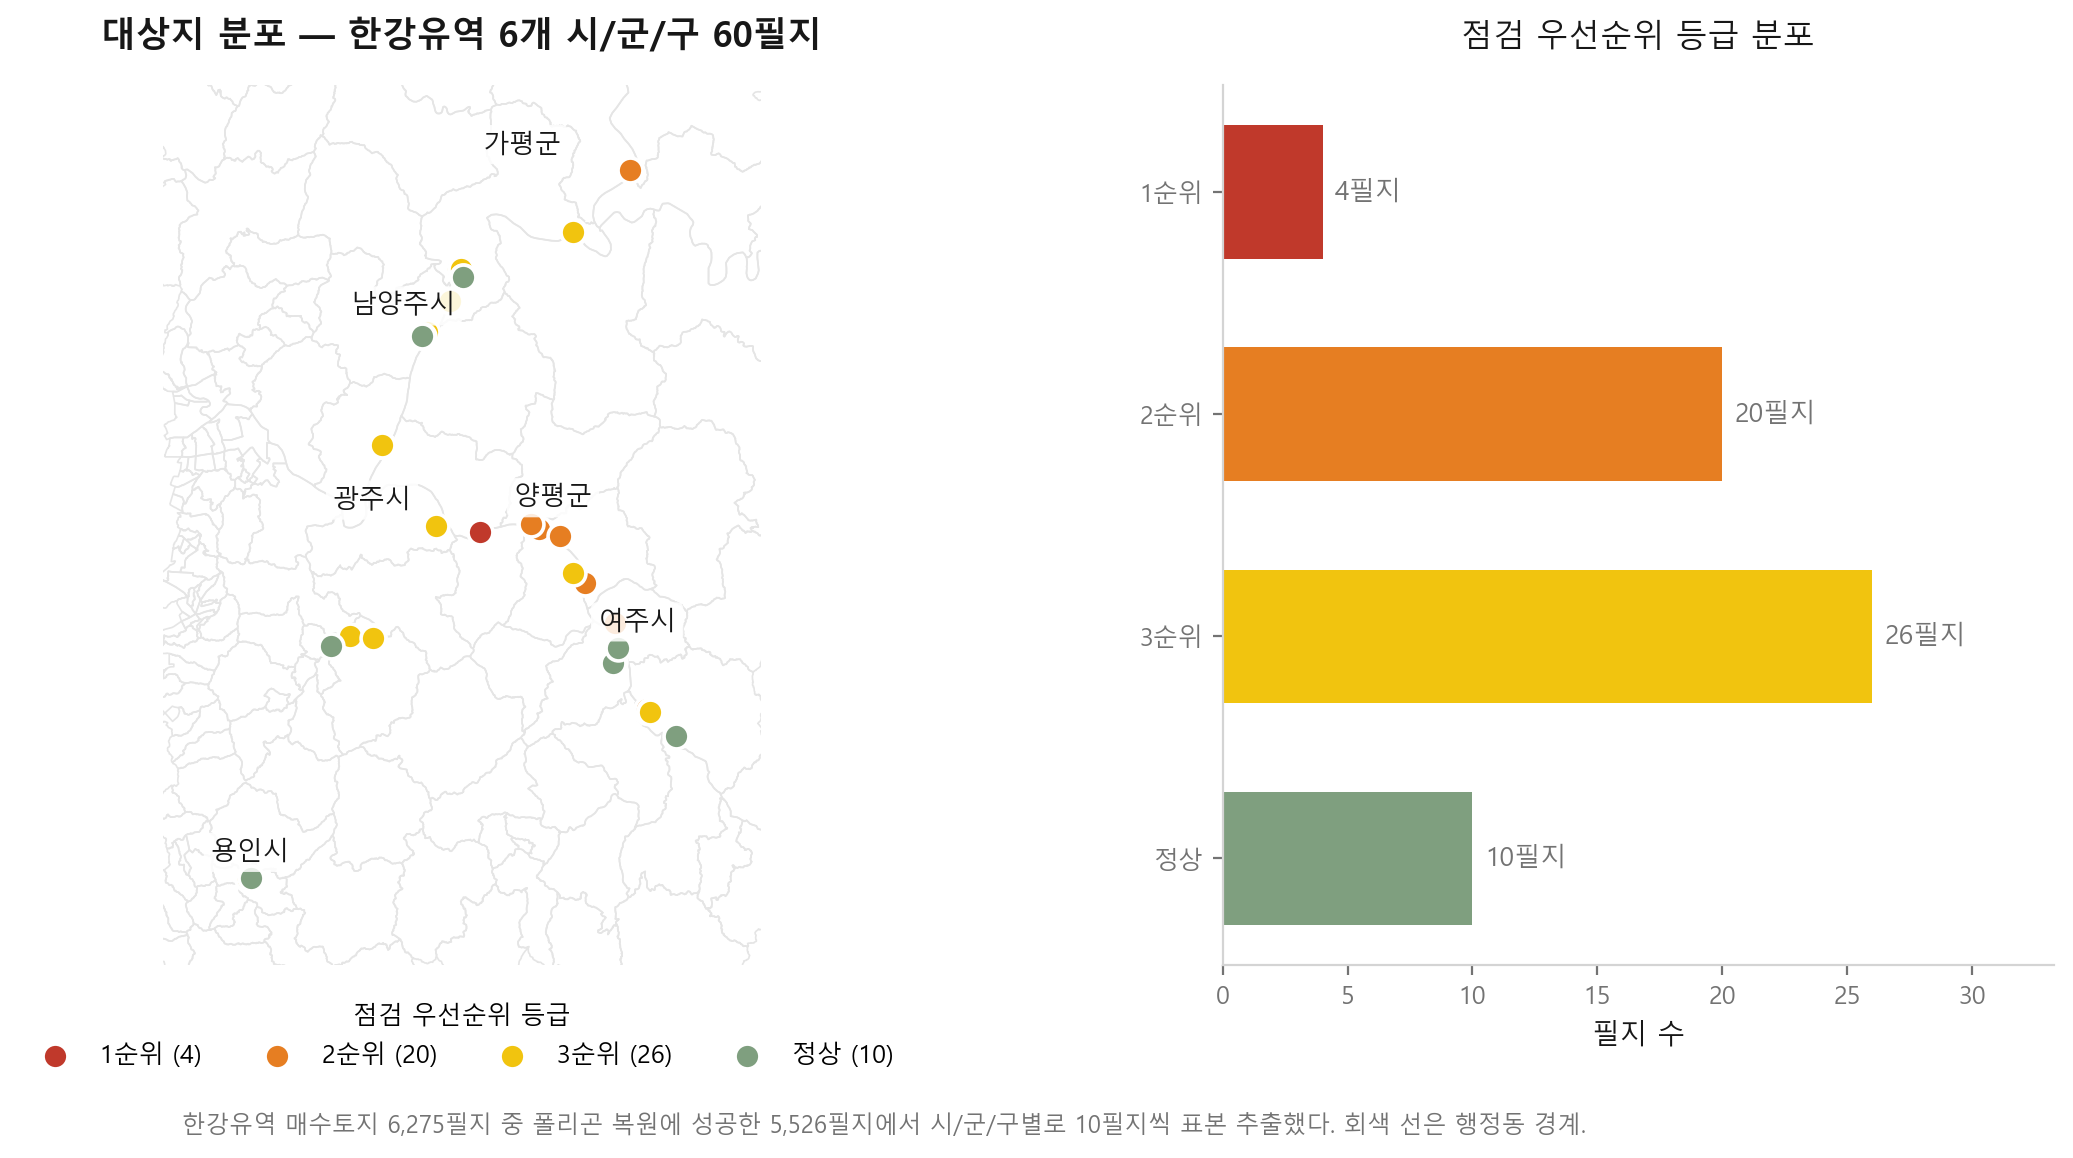
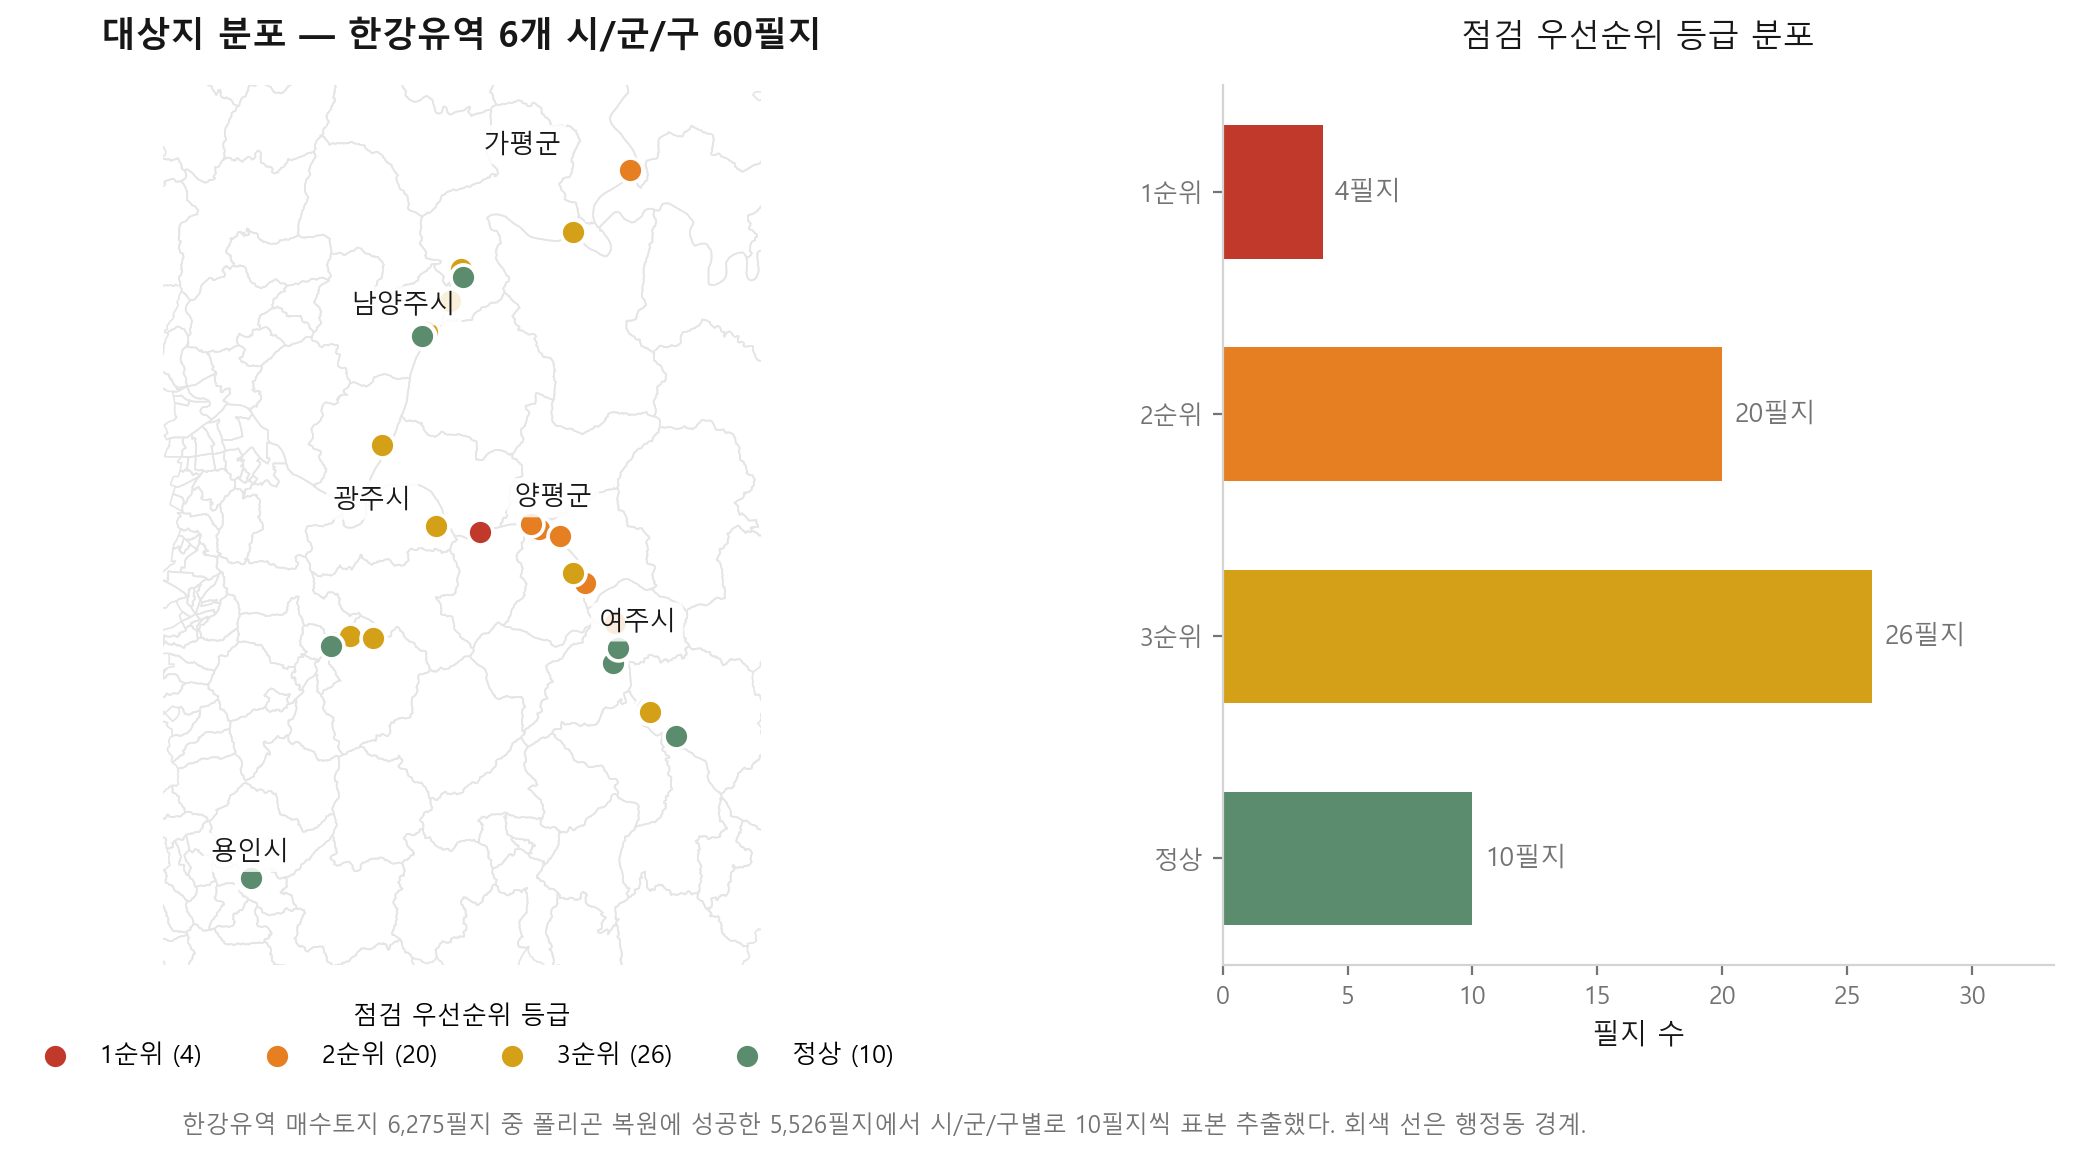
프로그램명을 '수변생태벨트 점검 우선순위 지원시스템'으로 변경
리서치 원문의 세 가지 근거를 따랐다.

첫째, 기관 적합성(중요도 최상) 항목에서 7점과 10점을 가르는 기준이 "공식
사업명을 제안서에 직접 연결"이다. KECI의 공식 핵심사업명은 '수변생태벨트
조성·관리'이므로 이름 첫 단어에서 그 조건을 충족한다.

둘째, 리서치는 전면에 내세울 이름으로 '수변녹지 관리 의사결정 시스템'을
지정하고 Agent를 혁신의 이름으로 쓰지 말라고 했다. 셋째, "AI를 핵심으로
과장하지 않는다"고 명시했다. 기존 이름은 하필 그 두 가지를 다 갖고 있었다.
'가드'의 감시·단속 어감도 매수토지 관리라는 사업 성격과 맞지 않는다.

부제는 대상 범위와 방법을 담도록 바꿨다.
'한강수계 매수토지 · 위성 변화탐지 기반 현장점검 순서 산정'

반영 범위: UI 헤더, 문서 title/description, 보고서 표제부와 각주,
Agent 시스템 프롬프트 2종, F3 워크플로 도식 제목.
저장소명 waterside_guard는 그대로 둔다 - 코드 식별자라 바꾸면 remote URL이
깨지고, 심사 대상은 제안서와 화면이다.

함께 정리한 것:
- 성능 비교표의 'proposed' 라벨을 '본 시스템 (다요인 통합)'으로. 긴 시스템명을
  표에 넣으면 다른 baseline과 길이가 맞지 않아 읽기 나빠진다.
- figure의 등급 색이 UI 팔레트와 어긋나 있었다(3순위·정상). 같은 등급이 화면과
  제안서에서 다른 색으로 보이면 그 자체로 신뢰를 깎으므로 lib/tiers.ts 값에 맞췄다.
- figure 문구도 UI와 같은 어휘로. '가까운 곳끼리 묶어 이동' -> '권역 통합 방문',
  '상위 N곳' -> '상위 N필지'.

diff --git a/ui/components/WeeklyReportModal.tsx b/ui/components/WeeklyReportModal.tsx
@@ -126,7 +126,7 @@ function ReportBody({ data, budget }: { data: ReportData; budget: number }) {
       <header className="mb-6 avoid-break">
         <div className="flex items-start justify-between">
           <div>
-            <p className="text-[11px] font-semibold tracking-wide text-brand">수변녹지 점검 우선순위 지원시스템</p>
+            <p className="text-[11px] font-semibold tracking-wide text-brand">수변생태벨트 점검 우선순위 지원시스템</p>
             <h1 className="mt-1 text-[22px] font-bold leading-tight">주간 점검현황 보고</h1>
           </div>
           <div className="text-right text-[11px] leading-relaxed text-ink-3">
@@ -344,7 +344,7 @@ function ReportBody({ data, budget }: { data: ReportData; budget: number }) {
 
         <p className="mt-4 border-t pt-2 text-[10px] text-ink-3" style={{ borderColor: "var(--line)" }}>
           Sentinel-2 광학 / Sentinel-1 레이더 관측, JRC 수역 자료, 기상 강수 자료를 근거로 산출. 작성{" "}
-          {data.generatedAt} · 수변가드 AI
+          {data.generatedAt} · 수변생태벨트 점검 우선순위 지원시스템
         </p>
       </section>
     </>

diff --git a/ui/app/page.tsx b/ui/app/page.tsx
@@ -106,8 +106,8 @@ export default function Home() {
               </svg>
             </span>
             <div>
-              <h1 className="text-[15px] font-bold leading-tight tracking-tight">수변가드 AI</h1>
-              <p className="text-[11px] leading-tight text-ink-3">한강수계 매수토지 점검 우선순위 지원시스템</p>
+              <h1 className="text-[14px] font-bold leading-tight tracking-tight">수변생태벨트 점검 우선순위 지원시스템</h1>
+              <p className="text-[11px] leading-tight text-ink-3">한강수계 매수토지 · 위성 변화탐지 기반 현장점검 순서 산정</p>
             </div>
           </div>
 

diff --git a/ui/app/layout.tsx b/ui/app/layout.tsx
@@ -22,8 +22,8 @@ const notoSansKR = Noto_Sans_KR({
 });
 
 export const metadata: Metadata = {
-  title: "수변가드 AI — 수변녹지 점검 우선순위 지원시스템",
-  description: "한강수계 매수토지·수변녹지의 위성 변화탐지 기반 현장점검 우선순위 지원시스템",
+  title: "수변생태벨트 점검 우선순위 지원시스템",
+  description: "한강수계 매수토지 · 위성 변화탐지 기반 현장점검 순서 산정. 한국환경보전원 수변생태벨트 조성·관리 사업의 점검 인력 배분을 지원한다.",
 };
 
 export default function RootLayout({ children }: LayoutProps<"/">) {

diff --git a/ui/components/CoverageCurveChart.tsx b/ui/components/CoverageCurveChart.tsx
@@ -10,7 +10,7 @@ const PAD_T = 12;
 const PAD_B = 34;
 
 const SERIES_STYLE: Record<string, { label: string; color: string; dash?: string }> = {
-  proposed: { label: "수변가드 (다요인)", color: "var(--brand)" },
+  proposed: { label: "본 시스템 (다요인 통합)", color: "var(--brand)" },
   ndvi_only: { label: "NDVI 이상도 단독", color: "var(--est)", dash: "4 3" },
   recency: { label: "최종 점검일 기준", color: "var(--warn)", dash: "4 3" },
 };

diff --git a/ui/components/BacktestModal.tsx b/ui/components/BacktestModal.tsx
@@ -11,7 +11,7 @@ const BASELINE_LABEL: Record<string, string> = {
   random: "무작위 선정",
   ndvi_only: "NDVI 이상도 단독",
   recency: "최종 점검일 기준",
-  proposed: "수변가드 (다요인)",
+  proposed: "본 시스템 (다요인 통합)",
 };
 
 function pct(v: number | null): string {

diff --git a/scripts/generate_figures.py b/scripts/generate_figures.py
@@ -40,7 +40,9 @@ RED = "#c0392b"
 GREEN = "#15803d"
 BLUE = "#2563eb"
 ORANGE = "#e67e22"
-TIER_COLOR = {"1순위": "#c0392b", "2순위": "#e67e22", "3순위": "#f1c40f", "정상": "#7f9f7f"}
+# ui/lib/tiers.ts, ui/app/globals.css의 --tier-* 와 반드시 같은 값 — 화면과 제안서 그림에서
+# 같은 등급이 다른 색으로 보이면 그 자체로 신뢰를 깎는다.
+TIER_COLOR = {"1순위": "#c0392b", "2순위": "#e67e22", "3순위": "#d4a017", "정상": "#5b8c6e"}
 
 
 def _api(path: str) -> dict:
@@ -194,8 +196,8 @@ def fig_route_savings() -> None:
     fig, ax = plt.subplots(figsize=(8, 4.4))
     x = range(len(budgets))
     w = 0.34
-    ax.bar([i - w / 2 for i in x], naive, w, label="우선순위 순서대로 이동", color=FAINT)
-    ax.bar([i + w / 2 for i in x], clustered, w, label="가까운 곳끼리 묶어 이동", color=BLUE)
+    ax.bar([i - w / 2 for i in x], naive, w, label="순위 순차 방문", color=FAINT)
+    ax.bar([i + w / 2 for i in x], clustered, w, label="권역 통합 방문", color=BLUE)
 
     for i, (n, c, p) in enumerate(zip(naive, clustered, saved_pct)):
         ax.text(i - w / 2, n + 6, f"{n:.0f}km", ha="center", fontsize=9, color=MUTED)
@@ -205,10 +207,10 @@ def fig_route_savings() -> None:
                     color=GREEN, fontweight="bold")
 
     ax.set_xticks(list(x))
-    ax.set_xticklabels([f"상위 {b}곳" for b in budgets], fontsize=10, color=INK)
+    ax.set_xticklabels([f"상위 {b}필지" for b in budgets], fontsize=10, color=INK)
     ax.set_ylabel("총 이동거리 (km)", fontsize=10, color=INK)
     ax.set_ylim(0, max(naive) * 1.25)
-    ax.set_title("같은 대상지를 도는 데 필요한 이동거리", fontsize=12, fontweight="bold", color=INK, pad=12)
+    ax.set_title("동일한 점검 대상에 필요한 이동거리", fontsize=12, fontweight="bold", color=INK, pad=12)
     ax.legend(fontsize=9, frameon=False, loc="upper left")
     _style(ax)
     fig.text(0.5, -0.03,
@@ -437,7 +439,7 @@ def fig_workflow() -> None:
     _box(ax, 2.5, 7.9, 5, 0.85, "광역 위성 관측\nSentinel-2 · Sentinel-1 · (국토위성)", "#f5f5f5", FAINT, 10)
     _box(ax, 2.5, 6.4, 5, 0.85, "변화 선별\n계절 정합 기준선 · 센서 일치 · 품질 게이트", "#eff6ff", BLUE, 10)
     _box(ax, 2.5, 4.9, 5, 0.85, "점검 우선순위 + 근거\n왜 이 순위인가 · 증거 신뢰도", "#eff6ff", BLUE, 10, "bold")
-    _box(ax, 2.5, 3.4, 5, 0.85, "이번 주 갈 수 있는 만큼 Top-N\n가까운 곳끼리 묶어 방문 순서", "#eff6ff", BLUE, 10)
+    _box(ax, 2.5, 3.4, 5, 0.85, "주간 점검 가능 인력에 맞춘 상위 N필지\n권역별 통합 방문 순서", "#eff6ff", BLUE, 10)
 
     _box(ax, 1.35, 1.6, 3.15, 0.85, "현장직원 확인", "#f0fdf4", GREEN, 10)
     _box(ax, 5.5, 1.6, 3.15, 0.85, "드론 확인", "#f0fdf4", GREEN, 10)
@@ -460,10 +462,10 @@ def fig_workflow() -> None:
     ax.text(fx + 0.14, 3.05, "현장 결과가\n다음 주기\n우선순위에\n반영", fontsize=8.5, color=ORANGE,
             ha="left", va="center", linespacing=1.6)
 
-    ax.text(5, 8.98, "수변가드 AI — 관측에서 현장 확인까지", fontsize=13.5, fontweight="bold",
+    ax.text(5, 8.98, "수변생태벨트 점검 우선순위 지원시스템 — 관측에서 현장 확인까지", fontsize=12.5, fontweight="bold",
             color=INK, ha="center")
     ax.text(5, -0.35,
-            "위성은 훼손을 확정하지 않는다. 넓은 대상지에서 먼저 볼 후보를 좁히고, 확정은 현장직원과 드론이 한다\n"
+            "위성은 훼손을 확정하지 않는다. 넓은 대상 지역에서 먼저 확인할 후보를 좁히고, 확정은 현장직원과 드론이 한다\n"
             "— 드론을 대체하는 것이 아니라 어디로 보낼지를 정한다.",
             fontsize=9, color=MUTED, ha="center", linespacing=1.6)
     fig.tight_layout()

diff --git a/module_agent/run.py b/module_agent/run.py
@@ -15,7 +15,7 @@ from module_agent.gemini_client import init_client, model_name
 from module_agent.tools import get_inspection_history, get_risk_evidence, get_timeseries_summary
 
 SYSTEM_INSTRUCTION = (
-    "당신은 수변가드 AI의 Evidence Agent입니다. 점검 우선순위 점수를 스스로 계산하거나 새로운 숫자를 "
+    "당신은 수변생태벨트 점검 우선순위 지원시스템의 근거 조회 에이전트입니다. 점검 우선순위 점수를 스스로 계산하거나 새로운 숫자를 "
     "만들어내지 마세요 — 제공된 tool을 호출해 얻은 값만 근거로 답하세요. 종(種) 판독(어떤 "
     "식물·현상인지 확정)이나 확정 진단은 하지 말고, 관측된 변화를 있는 그대로 담당자에게 "
     "설명하세요. 한국어로, 현장 담당자가 바로 이해할 수 있게 6문장 이내로 답하세요."

diff --git a/module_agent/report.py b/module_agent/report.py
@@ -10,7 +10,7 @@ from module_agent.gemini_client import init_client, model_name
 from module_agent.tools import get_weekly_summary
 
 SYSTEM_INSTRUCTION = (
-    "당신은 수변가드 AI의 근거 조회 에이전트입니다. get_weekly_summary tool을 호출해 얻은 "
+    "당신은 수변생태벨트 점검 우선순위 지원시스템의 근거 조회 에이전트입니다. get_weekly_summary tool을 호출해 얻은 "
     "숫자만 근거로, 공공기관 주간 점검현황 보고서의 '종합 의견'란에 들어갈 3~5문장을 작성하세요. "
     "숫자를 지어내지 말고, '-습니다'체의 담담한 실무 문어로 쓰세요. 단위는 필지를 쓰고, "
     "'고위험'처럼 훼손 발생 확률을 단정하는 표현 대신 '우선 확인 대상'처럼 점검 순서를 "
